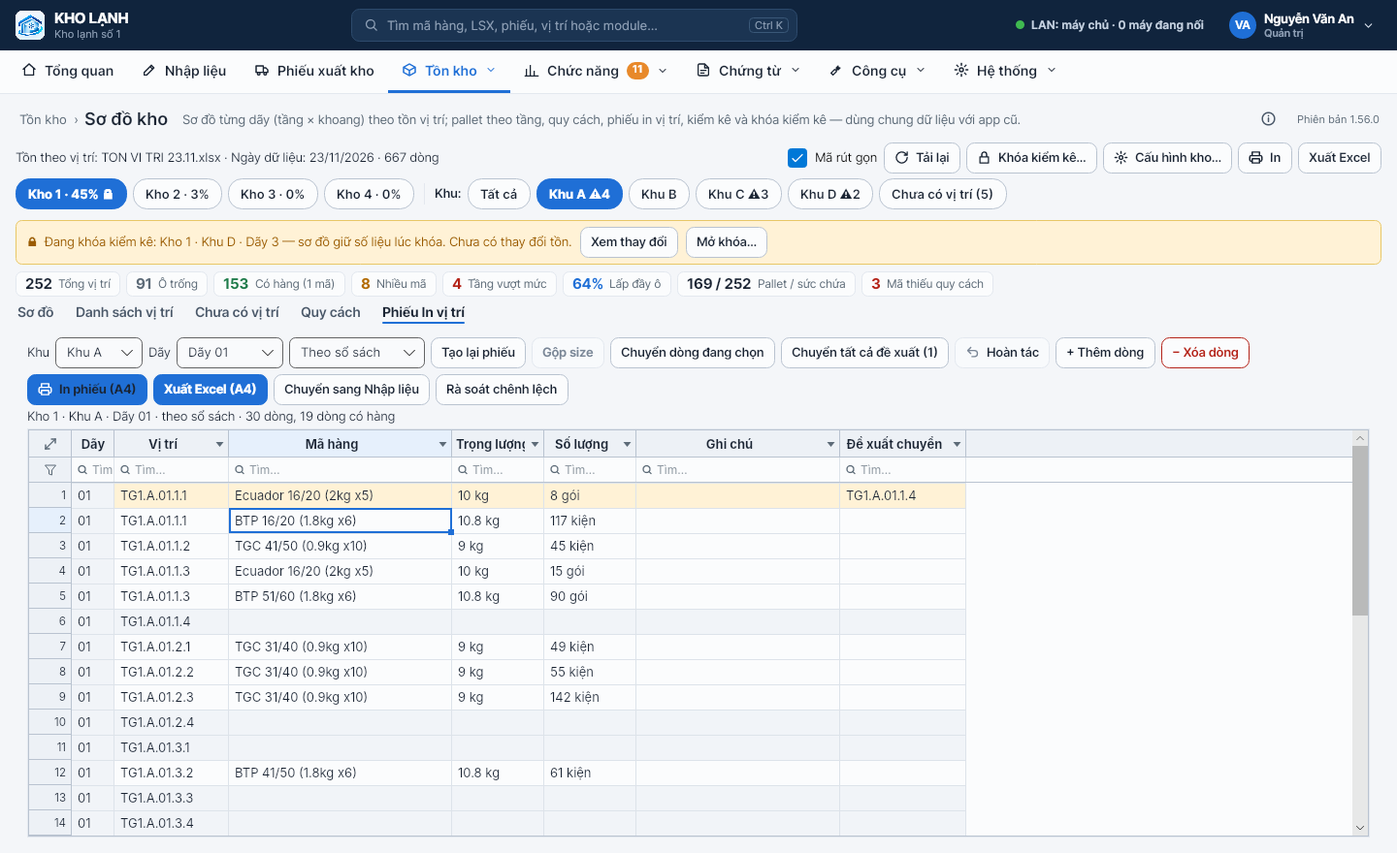
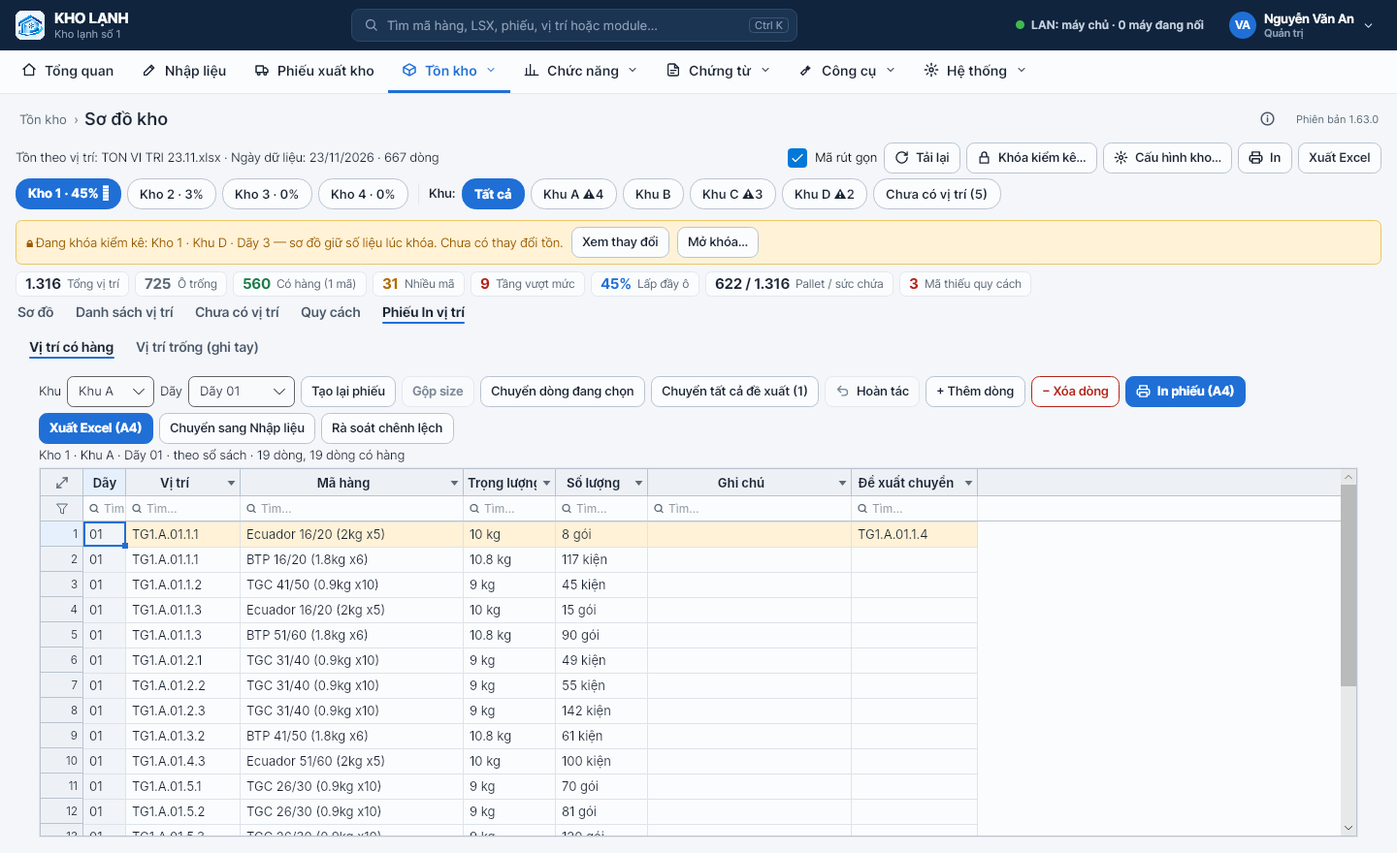
1.63.0: tìm đúng nhãn size như app cũ, lọc vị trí đang chọn, Phiếu In vị trí 2 tab (có hàng / vị trí trống)
Claude-Session: https://claude.ai/code/session_01Mju3BEEvGW58EumsLhkh7D

diff --git a/tools/Screenshots/Program.cs b/tools/Screenshots/Program.cs
@@ -633,6 +633,38 @@ if (Environment.GetEnvironmentVariable("SHOTS_ONLY") == "nl")
     Snap(main, "20d-nhap-lieu-mau");
     s.Lan.Dispose(); Console.WriteLine("Xong (nl): " + outDir); return;
 }
+// Tồn theo vị trí — tìm đúng nhãn size + lọc vị trí đang chọn; Sơ đồ kho — Phiếu In 2 tab (1.63): SHOTS_ONLY=vt
+if (Environment.GetEnvironmentVariable("SHOTS_ONLY") == "vt")
+{
+    void W(int ms) { for (var i = 0; i < ms / 30; i++) { Thread.Sleep(30); Pump(); } }
+    main.Navigate("m7"); W(900);
+    var vv = (ViTriView)main.PageHost.Content!;
+    _ = vv.OpenPickerForTest(); W(600);
+    var pw = vv.PickerWindow!;
+    var g = pw.GetVisualDescendants().OfType<KhoLanh.App.Controls.SheetGrid>().First(x => x.Model.ColCount == 11);
+    // vị trí có ≥ 2 mã, lấy nhãn size của 1 mã trong đó
+    var vtRows = s.ViTri.Rows;
+    var multi = vtRows.Where(r => r.Vt.Length > 0 && r.Sl > 0 && s.ViTri.GopLabel(r) is not null).GroupBy(r => r.Vt).First(gr => gr.Select(r => r.Ma).Distinct().Count() >= 2);
+    var label = s.ViTri.GopLabel(multi.First())!;
+    var q = pw.GetVisualDescendants().OfType<TextBox>().First(t => t.Watermark?.StartsWith("Tìm: BTP") == true);
+    q.Text = label; W(400);
+    var r0 = Enumerable.Range(0, g.Model.RowCount).First(i => g.Model.Row(i)[0] == multi.Key);
+    g.Model.SetCells(new[] { (r0, 7, "x") }); W(300); g.Select(r0, 7);
+    Console.WriteLine($"   tìm “{label}”: {g.Model.RowCount} dòng, các size: {string.Join(", ", Enumerable.Range(0, g.Model.RowCount).Select(i => g.Model.Row(i)[2]).Distinct())}");
+    Snap(pw, "24b1-vi-tri-tim-dung-size");
+    var pos = pw.GetVisualDescendants().OfType<CheckBox>().First(c => c.Content as string == "Lọc vị trí đang chọn");
+    pos.IsChecked = true; W(400);
+    Snap(pw, "24b2-vi-tri-loc-vi-tri-dang-chon");
+    pw.Close(); W(300);
+    main.Navigate("m8"); W(900);
+    var tc = main.PageHost.GetVisualDescendants().OfType<TabControl>().First();
+    tc.SelectedIndex = 4; W(600);
+    Snap(main, "25f-so-do-phieu-in");
+    var sub = main.PageHost.GetVisualDescendants().OfType<TabControl>().First(t => t != tc && t.Items.Count == 2 && t.IsEffectivelyVisible);
+    sub.SelectedIndex = 1; W(600);
+    Snap(main, "25g-so-do-phieu-in-vi-tri-trong");
+    s.Lan.Dispose(); Console.WriteLine("Xong (vt): " + outDir); return;
+}
 // Phiếu xuất kho (1.61, danh sách / nhập liệu tách tab): SHOTS_ONLY=px
 if (Environment.GetEnvironmentVariable("SHOTS_ONLY") == "px")
 {

diff --git a/README.md b/README.md
@@ -24,8 +24,8 @@ App đang được dựng lại theo từng module (từ bản 1.7.0 đã gỡ c
 | Tồn kho gửi | **Viết bằng C# (không WebView2)**, dùng chung database `ton-kho-gui` với app cũ: 7 tab (Load Data, Dữ Liệu, Phiếu Xuất, Phân Loại 6 nhóm + Điều kiện lọc, Đặc Tính, Báo Cáo — Bảng Tổng Hợp, Đối Soát). Nạp file xlsx / xls / csv có xem trước + kiểm tra, lịch sử nạp + hoàn tác; phân loại theo Số lô / Size (Ecuador, Ấn Độ, Gia Công, Giám Sát, Nguyên Liệu, HLSO) kèm điều kiện lọc tự thêm; Đặc Tính suy từ Tên hàng + bảng nhập tay + chuyển Số lô CKQ + gộp nhóm; phiếu xuất (tạo / sửa / xóa, trừ và hoàn Số kiện + Trọng lượng, phiếu đợt cũ bị khóa) xuất Excel “Phiếu yêu cầu xuất hàng”; xuất Excel Dữ Liệu / từng nhóm / Bảng Tổng Hợp. Bản WebView2 cũ còn ở mục “Tồn kho gửi (bản cũ)” để đối chiếu. Bảng Tổng Hợp Tùy Chọn ở tab Báo Cáo (chọn Size / Đặc Tính, ẩn cột trống, lưu mẫu, xuất Excel). Chưa so với dữ liệu thật. |
 | NXT Bột/Sốt | Viết bằng C#, theo "Sổ kho bột / sốt" của app cũ, dùng chung database `nxt-bot-sot` (sổ cái `SoCai`, `SoKhoDinhMuc`, `SoKhoSanLuong`, `SoKhoCauHinh`, `_SoKhoLichSu`). Mọi nghiệp vụ là dòng sổ cái (tồn đầu · nhập · xuất · chuyển · điều chỉnh); tồn theo lô (vị trí · mã · size · hạn dùng · ngày nhập), xuất không chỉ định lô thì trừ **FIFO**, mốc tồn đầu. 8 tab: Phiếu nhập · Phiếu xuất · Chuyển vị trí (soạn trên lưới, kiểm tra, cảnh báo tràn lô / vượt định mức, in A4) · Tồn kho (theo mã + size / vị trí / lô / NXT kỳ / sắp hết hạn / tồn âm, chốt tồn đầu kỳ, xuất Excel) · Kiểm kê (số đếm → chênh → ghi điều chỉnh) · Định mức (định mức + sản lượng LSX → báo cáo vượt / thiếu, LSX chưa có định mức) · Sổ cái & lịch sử (lọc, xóa, nạp / xuất Excel, hoàn tác từng thao tác) · Cấu hình (dung sai, báo hạn, tồn tối thiểu). Lõi đối chiếu khớp tuyệt đối với lõi JS app cũ. Quyền "NXT Bột/Sốt". **Mẫu cột** (sheet `SoKhoMau`, dùng chung app cũ): Cấu hình › Mẫu cột phiếu — đổi tên / ẩn / sắp xếp cột, thêm cột phụ cho từng loại phiếu (mẫu chung · nhập · xuất · chuyển); cột phụ hiện ở Sổ cái. Tồn theo vị trí đưa lên Vị Trí Bột bằng nút "📱 Đưa lên Vị Trí Bột…". |
 | Vị Trí Bột | Viết bằng C#, theo "Vị Trí Bột" (M01VTB) của app cũ, dùng chung database `ton-kho-an-an` (sheet `ViTriBotMeta`, `ViTriBot`, `ViTriBotPhieuDienThoai`). Tồn bột / sốt theo vị trí được **đưa lên từ NXT Bột/Sốt › Tồn kho › "📱 Đưa lên Vị Trí Bột…"** (tồn cuối theo vị trí đến ngày chọn, thay toàn bộ dữ liệu cũ; phiếu đợt cũ bị khóa). Bảng tồn bỏ dòng SL = 0, tìm không dấu; gõ SL xuất ngay trên lưới ("x" = lấy hết) → "Tạo phiếu xuất" lưu và trừ ngay cột SL; danh sách phiếu PC / điện thoại: hủy trừ / trừ lại / xóa (hoàn SL). Quyền "Vị Trí Bột". **Điện thoại**: nút "📱 Đồng bộ điện thoại" dùng đúng Web App (Apps Script) của app điện thoại hiện có — nhận phiếu xuất Vị Trí Bột do điện thoại tạo (trừ tồn đúng dòng theo khóa, đánh dấu "Đã xử lý"; phiếu module khác giữ nguyên), rồi đẩy tồn lên tab `TonKho_M01_ViTriBot` + Meta; "Đưa lên Vị Trí Bột" từ NXT Bột/Sốt tự đẩy lên điện thoại khi đã kết nối ("Kết nối điện thoại…": đường dẫn Web App + mã PC_TOKEN, lưu trên máy). **Nạp file "Vị trí Bột" kiểu cũ** (dòng "NGÀY:" + tiêu đề VT · MÃ HÀNG · SL · NSX · HSD · NHẬP · NGÀY XUẤT · VỊ TRÍ CŨ · VỊ TRÍ MỚI · GHI CHÚ; có "Tải file mẫu"). |
-| Tồn kho theo vị trí | Viết bằng C# (không WebView2), theo “Tồn Vị Trí An An” của app cũ, dùng chung dữ liệu (db `ton-vi-tri-an-an`). Nạp file Tồn kho theo vị trí (tự tìm dòng tiêu đề), tìm nhanh + lọc theo khu. Gõ / dán SL xuất ngay trên lưới (“x” = lấy hết ô), khung “Phiếu đang soạn” bên phải: loại phiếu (thay thùng / xuất xả), ngày, tiêu đề, gộp theo Size, cảnh báo (còn hàng ở vị trí khác, SL bất thường, trùng phiếu cùng ngày). Lưu phiếu trừ tồn ngay; sửa, hủy trừ / trừ lại, gộp / tách phiếu, tách mã ra phiếu mới, đổi loại / ngày, xóa (hoàn tồn), mở khóa phiếu đợt nạp cũ. Nạp file mới: đối chiếu phiếu đã trừ với file mới (khớp / chưa giảm / lệch), trừ lại phiếu hôm nay, liệt kê hàng đổi vị trí. Lưu trữ theo ngày (gộp theo ngày + loại), thống kê Size, xuất Excel theo mẫu cũ và ảnh PNG. In trực tiếp (nút 🖨 In: mở trang in A4 trong trình duyệt, In hoặc Lưu PDF) cho phiếu đang soạn / đã lưu / lưu trữ theo ngày. Chưa làm: nhận phiếu từ điện thoại. **1.54:** tab **Lập phiếu xuất** chỉ còn 1 bảng — phiếu đang soạn (đầu phiếu + các ô đã chọn, sửa SL xuất ngay trên bảng, xóa = bỏ dòng); nút **Chọn hàng từ tồn…** mở cửa sổ lớn chứa bảng tồn (lọc, tích ô đầu dòng / gõ SL) rồi "Xong — đưa vào phiếu". |
-| Sơ đồ kho | Viết bằng C# (không WebView2), theo “Sơ đồ kho” của app cũ, dùng chung dữ liệu (db `so-do-vi-tri`; tồn đọc từ Tồn kho theo vị trí, vị trí dạng `TG1.A.01.1.1` = Kho.Khu.Dãy.Tầng.Khoang). Sơ đồ trực quan từng dãy (tầng × khoang, tầng cao ở trên), tô màu trống / có hàng / nhiều mã / tầng vượt mức, cột mức đầy pallet từng tầng, tìm và tô sáng ô trên sơ đồ; bấm ô xem hàng, pallet tầng, gợi ý chuyển khi tầng vượt mức. Danh sách vị trí có lọc (trạng thái, dãy, tầng, khoang), hàng chưa có vị trí (khu Z), quy cách kiện / gói (sửa trên lưới, điền theo tên hàng loạt), mã rút gọn / mã 21 ký tự. Phiếu In vị trí (theo sổ sách hoặc phiếu trống, sửa trên bảng, gộp size, chuyển đề xuất, hoàn tác, xuất Excel A4), chuyển sang Nhập liệu (mẫu Kiểm kê) và rà soát chênh lệch, khóa kiểm kê theo kho / khu / dãy kèm xem thay đổi, cấu hình kho (dãy, khoang, tầng, dãy khác tầng), xuất Excel. In trực tiếp (🖨 In) danh sách vị trí và Phiếu In vị trí (mỗi dãy 1 trang A4, In hoặc Lưu PDF). |
+| Tồn kho theo vị trí | Viết bằng C# (không WebView2), theo “Tồn Vị Trí An An” của app cũ, dùng chung dữ liệu (db `ton-vi-tri-an-an`). Nạp file Tồn kho theo vị trí (tự tìm dòng tiêu đề), tìm nhanh + lọc theo khu. Gõ / dán SL xuất ngay trên lưới (“x” = lấy hết ô), khung “Phiếu đang soạn” bên phải: loại phiếu (thay thùng / xuất xả), ngày, tiêu đề, gộp theo Size, cảnh báo (còn hàng ở vị trí khác, SL bất thường, trùng phiếu cùng ngày). Lưu phiếu trừ tồn ngay; sửa, hủy trừ / trừ lại, gộp / tách phiếu, tách mã ra phiếu mới, đổi loại / ngày, xóa (hoàn tồn), mở khóa phiếu đợt nạp cũ. Nạp file mới: đối chiếu phiếu đã trừ với file mới (khớp / chưa giảm / lệch), trừ lại phiếu hôm nay, liệt kê hàng đổi vị trí. Lưu trữ theo ngày (gộp theo ngày + loại), thống kê Size, xuất Excel theo mẫu cũ và ảnh PNG. In trực tiếp (nút 🖨 In: mở trang in A4 trong trình duyệt, In hoặc Lưu PDF) cho phiếu đang soạn / đã lưu / lưu trữ theo ngày. Chưa làm: nhận phiếu từ điện thoại. **1.54:** tab **Lập phiếu xuất** chỉ còn 1 bảng — phiếu đang soạn (đầu phiếu + các ô đã chọn, sửa SL xuất ngay trên bảng, xóa = bỏ dòng); nút **Chọn hàng từ tồn…** mở cửa sổ lớn chứa bảng tồn (lọc, tích ô đầu dòng / gõ SL) rồi "Xong — đưa vào phiếu". **1.63:** ô tìm theo đúng quy tắc app cũ — gõ nhãn size (“BTP 50 MKS”) chỉ ra đúng size đó, không lẫn 41/50, 35; gõ 1 con số (“50”) → ô đúng bằng số đó ([ảnh](docs/anh/24b1-vi-tri-tim-dung-size.png)); ô **Lọc vị trí đang chọn** hiện mọi mã còn tồn ở các vị trí đã có dòng đang xuất, kể cả mã chưa chọn ([ảnh](docs/anh/24b2-vi-tri-loc-vi-tri-dang-chon.png)). |
+| Sơ đồ kho | Viết bằng C# (không WebView2), theo “Sơ đồ kho” của app cũ, dùng chung dữ liệu (db `so-do-vi-tri`; tồn đọc từ Tồn kho theo vị trí, vị trí dạng `TG1.A.01.1.1` = Kho.Khu.Dãy.Tầng.Khoang). Sơ đồ trực quan từng dãy (tầng × khoang, tầng cao ở trên), tô màu trống / có hàng / nhiều mã / tầng vượt mức, cột mức đầy pallet từng tầng, tìm và tô sáng ô trên sơ đồ; bấm ô xem hàng, pallet tầng, gợi ý chuyển khi tầng vượt mức. Danh sách vị trí có lọc (trạng thái, dãy, tầng, khoang), hàng chưa có vị trí (khu Z), quy cách kiện / gói (sửa trên lưới, điền theo tên hàng loạt), mã rút gọn / mã 21 ký tự. Phiếu In vị trí (**1.63:** 2 tab — **Vị trí có hàng** theo sổ sách, không in ô trống; **Vị trí trống (ghi tay)** in các ô không có hàng theo sơ đồ, hoặc phiếu trắng mọi vị trí — [ảnh](docs/anh/25g-so-do-phieu-in-vi-tri-trong.png); sửa trên bảng, gộp size, chuyển đề xuất, hoàn tác, xuất Excel A4), chuyển sang Nhập liệu (mẫu Kiểm kê) và rà soát chênh lệch, khóa kiểm kê theo kho / khu / dãy kèm xem thay đổi, cấu hình kho (dãy, khoang, tầng, dãy khác tầng), xuất Excel. In trực tiếp (🖨 In) danh sách vị trí và Phiếu In vị trí (mỗi dãy 1 trang A4, In hoặc Lưu PDF). |
 | Đối chiếu kiểm kê | Viết bằng C# (không WebView2), theo “Số liệu kiểm kê” của app cũ (db `so-lieu-kiem-ke`). Số kiểm kê lấy từ các trang Nhập liệu mẫu Kiểm kê (chọn trang của kỳ, tự bỏ lần đếm cũ khi một vị trí đếm 2 ngày, xem chi tiết hoặc gộp theo mã). Đối chiếu với Tồn kho An An (hiện tại hoặc bản chụp tồn) theo mã, theo kiện và kg: Khớp / Thừa / Thiếu / Lệch kg / Chỉ có ở kiểm kê / Chưa kiểm kê, lọc nhanh, chi tiết từng dòng, gợi ý nguyên nhân (gõ sai mã, lệch trọng lượng, đếm trùng, lệch kiện) và sửa mã sai thẳng vào trang Nhập liệu. Đối chiếu Kế toán: dán từ Excel hoặc nạp file (Mã hàng, Tên, Trọng lượng, Số lượng, Net) rồi so theo kg. Theo vị trí: tô màu trên Sơ đồ kho (chưa đếm / khớp / lệch / thừa hàng) so với Tồn kho theo vị trí theo mã + lô, tiến độ từng kho / khu / dãy. Lệnh đếm theo dãy chia đều cho người đếm, xuất phiếu đếm Excel. Chốt kỳ kèm lý do (lưu bản chốt có số phiên bản, khóa thay đổi tới khi hủy chốt), xuất báo cáo Excel. Phân loại nhóm tồn theo module Tồn kho An An (Thành Phẩm Chính / Tạm / BM / HLSO / Gia Công / Nhập Khẩu / Nguyên Liệu / Giám Sát — đọc cả chuyển thủ công và điều kiện tự thêm), cột + lọc theo nhóm, ghi chú mã nằm nhiều nhóm; so theo LSX cho Thành Phẩm Chính (Khớp / Lệch / Thiếu thông tin, lọc “Lệch theo LSX”). Phát sinh nhập / xuất ghi ngay trên trang Nhập liệu (cột Ngày xuất / SL xuất / Ngày nhập / SL nhập) được quy số đếm về **Ngày chốt tồn** (cùng hoặc sau ngày đếm → trừ / cộng; trống ngày, trước ngày đếm, xuất quá số có → báo cần rà; sau ngày chốt → chỉ ghi nhận), hiện trong chi tiết từng mã. Tab **Tồn kho gửi**: lấy từ module Tồn kho gửi, đổi mã kho gửi 18–19 ký tự sang mã 21 (bảng chuyển đổi dùng chung với app cũ, không có thì tự đổi theo Mã hóa sản phẩm), cộng vào đối chiếu Kế toán (Tổng = kiểm kê + kho gửi); mã chỉ có ở kho gửi không lẫn vào đối chiếu An An. File Excel báo cáo có cột phát sinh nhập / xuất và sheet “Kho gui”, “Phat sinh”. Tab đầu **⚡ Kiểm kê nhanh** (theo app cũ PC 3.32): chọn / thả 1 hoặc nhiều file — app tự nhận Tồn kho An An / Kế toán / Tồn kho gửi theo tiêu đề cột (không rõ thì hỏi) và nạp bằng đúng chức năng của module đó (Tồn An An / Tồn gửi có xem trước, cảnh báo, hoàn tác); nguồn đang có, thẻ số (đã khớp · lệch SL / kg · chỉ có ở kiểm kê · chưa kiểm kê · % khớp), **Việc cần làm** tự lập (mỗi việc 1 nút: sửa mã gõ sai đủ chắc, xem từng nhóm lệch, mở Danh mục mã hàng…), **Sẵn sàng chốt?** + Chốt kỳ, báo cáo chênh lệch / file tổng; bảng kiểm kê ↔ tồn ↔ chênh (↔ kế toán) lọc nhanh, tìm, sao chép, xuất Excel, sửa mã dòng chọn, đúp chuột mở chi tiết ở tab Đối chiếu An An. |
 | Số liệu cuối kỳ | Viết bằng C#, theo "Đối chiếu kế toán - kho" (M07) của app cũ, dùng chung database `so-lieu-cuoi-ky` (sheet DC2_*). Đối chiếu **tồn cuối kỳ theo mã (kg)**: Tồn kho = Tồn An An + Tồn kho gửi; Chênh lệch = Tồn kho − Kế toán. Nạp file Excel An An / Kế toán (sheet NXT + sheet chứng từ + danh mục thành phẩm) / Kho gửi (tiêu đề 2 tầng, mã 18–19 ký tự tự đổi sang 21) — tự nhận cột (nhớ theo tên cột), không chắc thì cho ánh xạ cột tay; kỳ đọc từ nội dung báo cáo. Mỗi mã lệch: nguyên nhân gắn nhãn **xác định / nghi ngờ** + độ tin cậy (chỉ có 1 bên, ngoài danh mục, nhầm mã / quy cách / chia mã, lệch đầu kỳ / phát sinh, chứng từ lệch NXT / bằng đúng chênh / trùng / ngoài kỳ, tự không khớp, sai Net, nhầm đơn vị, tồn âm…; không đủ bằng chứng → "Chưa xác định"), gợi ý mã nhầm (độ giống mã, 10 đoạn mã, tên, đối ứng số lượng), mã nghi ngờ xếp cạnh nhau, chứng từ có dấu hiệu. Xử lý: xác nhận nguyên nhân, sửa mã (chuyển kg ở kho hoặc kế toán), điều chỉnh, ghi chú, đánh dấu chứng từ, nạp file điều chỉnh, lịch sử + hoàn tác; nhiều máy cùng làm tự gộp. Xuất Excel 10 sheet. Lõi khớp tuyệt đối với lõi JS app cũ (test đối chiếu). Quyền "Số liệu cuối kỳ". Nguồn An An / Tồn kho gửi **lấy thẳng từ module** (file đang nạp trong module, đi qua đúng bộ đọc file) hoặc nạp file; nguồn tuỳ chọn **Chứng từ nhập / xuất An An** (báo cáo nhập / xuất trong kỳ → phân tích chứng từ kho ↔ kế toán, đối chiếu khớp lõi JS); tab **Dữ liệu nguồn**: sửa ô Mã hàng / Số lượng kg của từng dòng (chỉ ghi phần sửa, file nạp giữ nguyên, ô đã sửa tô vàng, trả lại giá trị gốc, hoàn tác ở Lịch sử). |
 | Tổng hợp | Viết bằng C# (không WebView2), dùng chung dữ liệu với app cũ (db `tong-hop`). Mã hóa sản phẩm 21 ký tự (10 tổ hợp, danh sách chuẩn), danh sách mã hàng (11.603 mã mặc định, tô đỏ mã sai độ dài, tô vàng mã trùng / tổ hợp chưa khai báo, ghép mã), Bảng 1 nhập từ Excel → Bảng 2 gộp theo Ngày + Tên sản phẩm + Size, ánh xạ tên hàng (quy tắc đơn, kết hợp). Tra cứu kháng sinh nay là module riêng “Kết quả kháng sinh”. |

diff --git a/CLAUDE.md b/CLAUDE.md
@@ -41,6 +41,7 @@ App quản lý kho lạnh **viết lại bằng C#** (.NET 8, Avalonia, SQLite) 
 | 1.39 | Tự tạo List / phiếu theo Lịch xuất (`PNX_AutoLog` dùng chung app cũ) | `LichXuat/LichXuatAuto.cs`, `PhieuKho/PhieuKhoAuto.cs` |
 | 1.40 | Danh mục mã hàng (quyền `m3dm`) | `DanhMuc/` |
 | 1.41 | Kiểm kê nhanh (tab đầu Đối chiếu kiểm kê) | `KiemKe/KkNhanh.cs`, `Views/KiemKeView.Nhanh.cs` |
+| 1.63 | Tồn theo vị trí: ô tìm "thông minh" như app cũ `smart-search.js` (`ViTriService.Matcher`: nhãn Size đầu ô = đúng nhãn, cả ô dạng nhãn = bắt đầu bằng / dấu cách cuối = đúng, 1 con số = ô đúng bằng) + ô "Lọc vị trí đang chọn" · Sơ đồ kho › Phiếu In vị trí 2 tab con (Vị trí có hàng = mode `so` ẩn dòng trống `KkSheet.Visible()`; Vị trí trống = mode `rong` / `trong`) · chụp `SHOTS_ONLY=vt` | `ViTri/ViTriService.cs`, `Views/ViTriView.cs`, `SoDo/SoDoService.cs`, `Views/SoDoView.cs` |
 | 1.62 | Nhập liệu: tab Mẫu (sửa mẫu có sẵn = lưu đè id trong sheet `Mau`, "Về mặc định" xóa bản đè; thêm / nhân bản / xóa / tạo trang từ mẫu), cột có `GridColumn.Auto` (ten / size / tl / today) + `Formula` (công thức Excel `Core/Entry/CongThuc.cs`), tự điền qua `GridModel.Derive` (`Core/Entry/EntryRules.cs`, chung 1 lần hoàn tác; dán nhiều dòng mã cũng điền; trang cũ điền theo tên cột khi ô trống), mẫu Kiểm kê mới (Vị trí, Mã hàng, Size, Trọng lượng, Số lượng, Net(kg), Ghi chú, Ngày nhập), tô màu ô (khóa `_bg` mỗi dòng = cột ẩn cuối lưới, `CellColors`), tra mã `MaGoiY.Lookup` (Trọng lượng = kg / tồn, dự phòng đoạn 8 / 9 Mã hóa sản phẩm) · toàn app bỏ dòng mô tả cạnh tiêu đề (`IPage.Subtitle` vào nút ⓘ) · chụp `SHOTS_ONLY=nl` | `Core/Entry/`, `Views/EntryView.axaml(.cs)`, `Views/EntryView.Mau.cs`, `SoDo/SoDoService.cs` (`ToNhapLieu` điền theo tên cột) |
 | 1.61 | Phiếu xuất kho: phiếu xuất khẩu / nội địa mỗi loại 2 tab con riêng — Danh sách phiếu (SheetGrid chỉ đọc, bấm đúp / Enter → mở) và Nhập liệu phiếu (tên tab = số phiếu, ● chưa lưu); nội địa: Thuận Phước / Gia công / Gửi kho ở tab Danh sách, Danh mục thành tab con thứ 3 · công cụ chụp `SHOTS_ONLY=px` | `Views/PhieuKhoView.cs`, `Views/CargoView.cs` |
 | 1.60 | Lưu trữ cá nhân (quyền `m19`, Công cụ): ghi chú / liên kết / ảnh / tệp riêng từng tài khoản (data.json CÙNG định dạng M19 app cũ + `ti` tiêu đề), ngăn + thẻ, đăng nhập Google cá nhân trong module (OAuth loopback TcpListener + PKCE, `drive.file`, Client ID/Secret máy `lt_google_id/secret`), tự sao lưu Drive theo lịch (`LtConfig.IsDue`, chạy ngầm từ MainWindow), khôi phục gộp, .zip, nạp app cũ · nút `primary` / `danger` có biểu tượng: chữ theo màu nút (Styles.axaml) | `LuuTru/`, `Views/LuuTruView.cs`, `docs/LUU-TRU-CA-NHAN.md`, chụp `SHOTS_ONLY=lt` |
@@ -82,6 +83,7 @@ App quản lý kho lạnh **viết lại bằng C#** (.NET 8, Avalonia, SQLite) 
 
 ## Nhật ký tiến độ
 (Ghi theo mẫu: ngày · việc · bản · đã làm · còn thiếu / lưu ý · file chính.)
+- 24/11/2026 · Tìm size + lọc vị trí + Phiếu In 2 tab · 1.63.0 · người dùng: "gõ BTP 50 thì ra size BTP 50 không kèm 41/50, 35" + "nút lọc vị trí đang chọn (hiện cả mã chưa chọn trong vị trí)" + "Phiếu in vị trí 2 tab: có số liệu / vị trí trống theo sơ đồ để ghi tay". Tìm: chép quy tắc `smart-search.js` (dòng: Ma, MaGoc, Ten, Vt, Lo, Size, Dt, Hd + nhãn `GopLabel`); nhãn không có trong dữ liệu thì tìm thường. Lọc vị trí: bỏ qua ô tìm / Khu, không tải lại khi sửa SL (dòng không biến mất). Phiếu In: dòng "trống" của tab có hàng vẫn giữ trong `KkSheet` làm đích "Chuyển" (chuyển vào thì hiện); tab Vị trí trống có ô chọn "Chỉ vị trí trống" / "Mọi vị trí (phiếu trắng)" (= "Phiếu trống" cũ); đổi tab con = đổi loại phiếu (hỏi nếu phiếu đang sửa chưa xuất). Test `ViTriTests.Smart_search…`, `SoDoTests.Phieu_in…`.
 - 24/11/2026 · Nâng cấp Nhập liệu · 1.62.0 · người dùng: "thêm tab sửa mẫu / thêm mẫu, công thức Excel cơ bản; mẫu kiểm kê Vị trí, Mã hàng, Size, Trọng lượng, Số lượng, Net(kg), Ghi chú, Ngày nhập (Size / TL theo mã, Net = SL × TL, Ngày nhập chỉ tự điền lúc tạo, sửa phiếu không đổi ngày); tô màu ô; bỏ ghi chú trên tiêu đề toàn app" + "dán mã hàng các cột khác không tự cập nhật". Cách hiểu "Ngày nhập": điền ngày hôm nay khi DÒNG trống được nhập lần đầu (dòng thêm vào phiếu cũ hôm sau mang ngày hôm đó). Công thức: nhân / chia với ô trống → trống (Net chưa đủ số không ghi 0, Đối chiếu kiểm kê không đếm nhầm). Cột công thức chỉ đọc, `EntryService.Save` luôn tính lại. Trang cũ giữ bộ cột cũ (không tự đổi sang mẫu mới); Đối chiếu kiểm kê đọc được cả hai (alias soluong / trongluong / netkg). Test `EntryRulesTests` (5) + `EntryTests.Edit_builtin_template…`.
 - 24/11/2026 · Tách danh sách / nhập liệu phiếu xuất · 1.61.0 · người dùng: "phiếu xuất khẩu và xuất nội địa: tách riêng bảng danh sách, bảng nhập liệu của phiếu thành 2 tab riêng không dùng chung 1 màn hình". Ngoài vẫn 4 tab (Phiếu xuất khẩu · List sản xuất · Phiếu xuất nội địa · Tự động đã tạo); trong mỗi loại phiếu `Ui.SubTabs` (Danh sách | Nhập liệu [| Danh mục]). Danh sách = `SheetGrid` ReadOnly (bỏ ListBox + ô tìm, lọc bằng dòng tìm của lưới); chọn dòng không mở phiếu, chỉ bấm đúp / Enter (handler Tunnel) / nút "Mở phiếu đang chọn" → `OpenPhieu` (hỏi nếu phiếu đang soạn chưa lưu; mở lại đúng phiếu đang soạn thì giữ thay đổi). Mở thẳng phiếu (Tìm nhanh, List sản xuất, Tổng quan) → tự sang tab Nhập liệu. Dữ liệu / định dạng không đổi. Ảnh `30-…`, `30b-…`, `31-…`, `31b-…`.
 - 24/11/2026 · Lưu trữ cá nhân · 1.60.0 · người dùng: "xây module lưu trữ cá nhân, tính năng và phong cách mới, đơn giản, dễ quản lý số liệu, đăng nhập Google cá nhân trực tiếp trên module, cài đặt sao lưu trong module … tự làm theo đề xuất tốt nhất". Kho ở `<thư mục dữ liệu>/luu-tru/<tk>/` (data.json + files/YYYY-MM/<id>__<tên>, cai-dat.json theo tài khoản: Gmail, refresh token `Secret.Protect`, lịch, lịch sử). Drive `KhoLanh_LuuTruCaNhan/<tk>/` (data.json, tep/, ban-theo-ngay/). Tự sao lưu: timer 60 s gọi `TickAsync` (luồng nền → `LtStore.Save` khóa ghi + `Retry` khi danh sách đang bị sửa). Người dùng phải tự tạo OAuth client Desktop trên Google Cloud (docs/LUU-TRU-CA-NHAN.md). Test `LuuTruTests` (9, `FakeGoogle` giả lập token + Drive, đăng nhập loopback thật).
